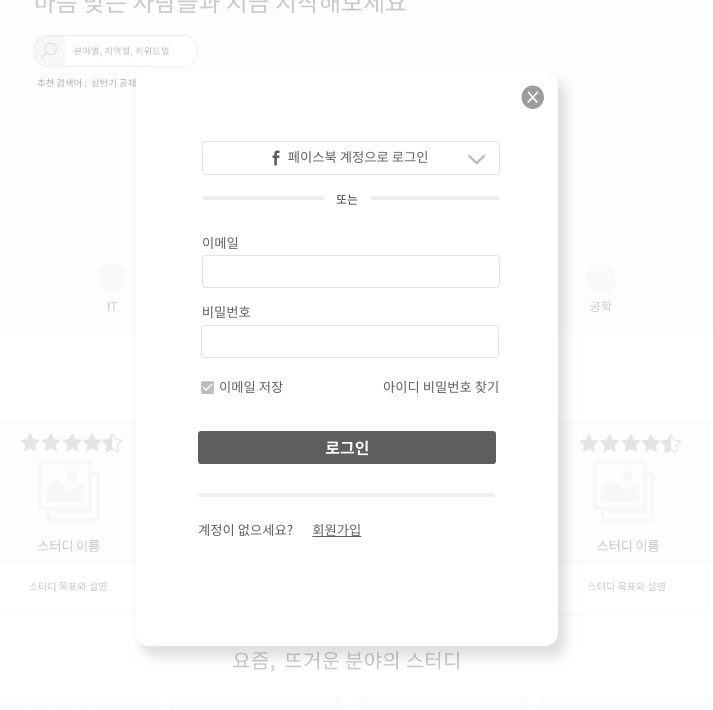
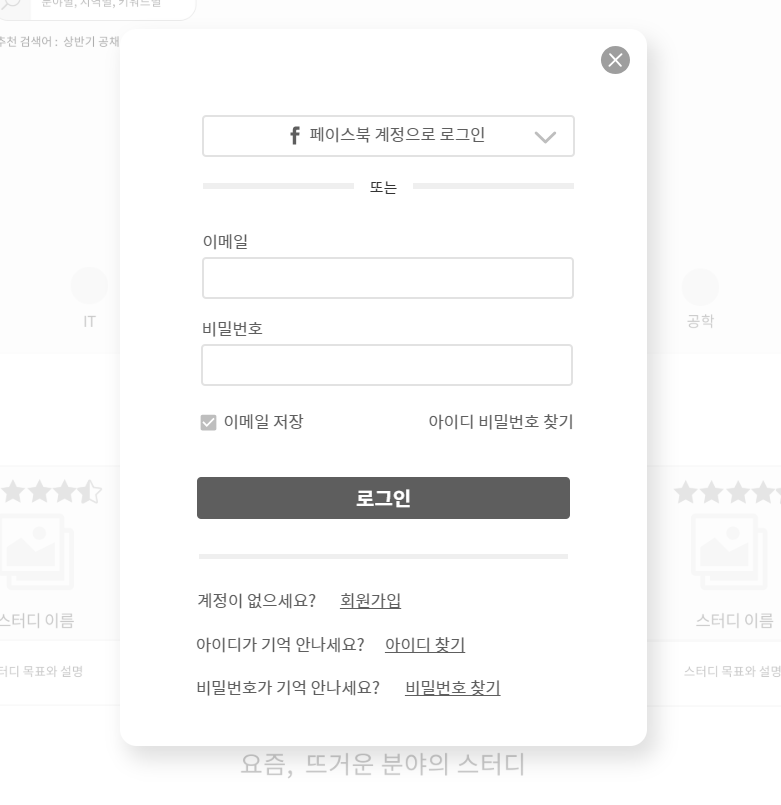
jihwan 유스케이스 수정 및 추가, use-case 수정

diff --git a/doc/use-case/jihwan/uc-StudyMemberViewManagement.md b/doc/use-case/jihwan/uc-StudyMemberViewManagement.md
@@ -1,0 +1,57 @@
+#UC - 스터디 멤버 상세 조회(StudyMemberDetailView)
+- 스터디에 가입한 멤버들의 정보를 볼 수 있는 유스케이스 이다.
+
+## 주 액터(Primary Actor)
+스터디 장
+
+## 보조 액터(Secondary Actor)
+
+## 사전 조건(Preconditions)
+- 액터는 마이페이지를 클릭한다.
+- 시스템은 마이페이지 폼을 출력한다.
+- 액터는 해당 스터디를 클릭한다.
+- 시스템은 해당 스터디 폼을 출력한다.
+
+## 종료 조건(Postconditions)
+- 멤버를 조회 하였다.
+- 멤버를 신고 하였다.
+- 멤버에게 쪽지를 보냈다.
+- 멤버에게 스터디장 권한을 위임 하였다.
+- 멤버를 추방 하였다.
+
+## 시나리오(Flow of Events)
+
+### 멤버 조회하기 (스터디 원도 가능)
+1. 액터는 해당 스터디를 클릭하면 좌측에 멤버 목록을 확인한다. 
+
+### 멤버 상세조회 (스터디 원도 가능)
+1. 액터는 좌측 멤버 목록 중 조회 하고자 하는 멤버를 클릭한다.
+2. 액터는 해당 멤버의 닉네임 및 별점을 확인 할 수 있다.
+
+### 멤버에게 쪽지 보내기 (스터디 원도 가능)
+1. 멤버 상세 조회 폼에서 쪽지 보내기 버튼을 클릭 한다.
+2. 시스템은 쪽지 보내기 폼을 출력한다.
+3. 액터는 보내고자 하는 내용을 작성 후 완료 버튼을 클릭한다.
+4. 위의 작업을 완료 후 해당 스터디의 폼이 출력된다.
+
+### 멤버 신고하기 (스터디 원도 가능)
+1. 멤버 상세 조회 폼에서 신고하기 버튼을 클릭 한다.
+2. 시스템은 신고하기 폼을 출력한다.
+3. 액터는 신고하고자 하는 내용을 작성 후 완료 버튼을 클릭한다.
+4. 위의 작업을 완료 후 해당 스터디의 폼이 출력된다.
+
+### 스터디장 권한 위임하기
+1. 멤버 상세 조회 폼에서 스터디 위임 버튼을 클릭 한다.
+2. 시스템은 위임 확인 폼을 출력한다.
+3. 액터는 확인을 누른다.
+4. 해당 멤버에게 스터디 장의 권한 위임이 완료 되었다.
+
+### 멤버 추방 하기
+1. 멤버 상세 조회 폼에서 추방 버튼을 클릭 한다.
+2. 시스템은 추방 확인 폼을 출력한다.
+3. 액터는 확인을 누른다.
+4. 해당 스터디 원은 추방 되었다.
+5. 시스템은 스터디 상세 조회 폼을 출력한다.
+
+### 스터디 멤버 조회
+![스터디 멤버 조회](./images/uc-studyMember.png)

diff --git a/doc/use-case/jihwan/uc-IdPwFind.md b/doc/use-case/jihwan/uc-IdPwFind.md
@@ -1,0 +1,50 @@
+#UC - 아이디, 비밀번호 찾기
+- 회원이 가입시 입력한 아이디, 비밀번호를 찾기 위한 유스케이스 이다.
+
+## 주 액터(Primary Actor)
+회원
+
+## 보조 액터(Secondary Actor)
+
+## 사전 조건(Preconditions)
+- 엑터는 로그인 버튼을 누른다.
+- 시스템은 로그인 폼을 출력한다.
+
+## 종료 조건(Postconditions)
+- 아이디를 찾았다.
+- 비밀번호를 찾았다.
+
+## 시나리오(Flow of Evnets)
+
+### 기본 흐름(Basic Flows)
+- 1. 엑터가 로그인 버튼을 클릭할 때 이 유스케이스를 시작한다.
+- 2. 시스템은 로그인 폼을 출력한다.
+- 3. 액터는 이메일, 암호를 입력한 후 로그인 버튼을 클릭한다.
+- 4. 로그인에 성공하여 이 전 페이지의 유스케이스로 간다.
+
+### 아이디 찾기
+- 1. 엑터가 아이디 찾기를 클릭할 때 이 유스케이스를 시작한다.
+- 2. 시스템은 아이디 찾기 폼을 출력한다.
+- 3. 엑터는 이름 혹은 닉네임과 회원가입시 등록한 휴대폰 번호를 입력한다.
+- 4. 해당 정보가 있다면 시스템은 회원가입시 등록한 이메일을 알려준다.
+- 5. 엑터는 시스템이 출력한 내용을 확인 후 확인버튼을 누른다.
+- 6. 시스템은 로그인 폼을 출력한다.
+
+### 비밀번호 찾기
+- 1. 엑터가 비밀번호 찾기를 클릭할 때 이 유스케이스를 시작한다.
+- 2. 시스템은 비밀번호 찾기 폼을 출력한다.
+- 3. 엑터는 이름 혹은 닉네임과 회원가입시 등록한 이메일을 입력한다.
+- 4. 시스템은 이름 혹은 닉네임과 회원가입시 등록한 이메일이 일치한다면, 해당 이메일로 임시 비밀번호를 전송한다.
+- 5. 이메일을 전송 후 시스템은 로그인 폼을 출력한다.
+
+### 아이디 찾기 예외 흐름
+- 엑터가 입력한 이름 혹은 닉네임과 회원가입시 등록한 휴대폰 번호가 없다면, 시스템은 정보를 재입력 하라고 알린다.
+
+### 비밀번호 찾기 예외 흐름
+- 엑터가 입력한 이름 혹은 닉네임과 회원가입시 등록한 이메일이 일치하지 않는다면, 시스템은 정보를 재입력 하라고 알린다.
+
+### 아이디 찾기
+![아이디 찾기](./images/uc-idFind.png)
+
+### 비밀번호 찾기
+![비밀번호 찾기](./images/uc-pwFind.png)

diff --git a/doc/use-case/use-cases.md b/doc/use-case/use-cases.md
@@ -41,6 +41,9 @@
 ### [스터디룸 조회](sangmin/uc-스터디룸조회.md)(비회원, 회원)
 - 비회원 및 회원이 스터디 공간을 조회하는 것
 
+### [아이디 혹은 비밀번호 찾기](jihwan/uc-idPwFind.md)(회원)
+- 회원이 로그인을 하는 것
+
 ### [로그인 하기](jihwan/uc-Login.md)(회원)
 - 회원이 로그인을 하는 것
 
@@ -89,24 +92,15 @@
 ### [스터디 게시판 관리](sanghyun/uc-스터디게시판관리.md)(스터디장, 스터디원)
 - 스터디원이 게시판의 글을 등록, 조회, 수정, 삭제 하는 것
 
-
-### [스터디 그룹의 스터디원 정보 조회](jihwan/uc-StudyMemberManagement)(스터디원)
+### [스터디 그룹의  정보 조회](jihwan/uc-StudyMemberViewManagement.md)(스터디원, 스터디장)
 - 스터디원이 그룹의 다른 스터디원 정보를 조회, 신고, 쪽지송신하는 것
-
-
+- 스터디장의 경우 스터디원을 조회, 신고, 쪽지, 추방, 위임 하는 것
 
 ### [스터디 일정 관리](heewook/uc-스터디일정.md)(스터디원, 스터디장)
 - 스터디원이 그룹의 일정을 등록, 조회, 수정, 삭제 하는 것
 
-
-
-
 ### [스터디원 가입 승인/거절](sangmin/uc-가입승인_거절.md)(스터디장)
 - 스터디장이 스터디 그룹에 가입 신청한 회원을 승인/거절 하는 것
-
-### [스터디 그룹의 스터디원 관리](jihwan/uc-StudyMemberManagementCaptain)(스터디장)
-- 스터디장이 그룹의 스터디원을 조회, 삭제 하는 것
-
 
 ### [스터디 그룹 관리](heewook/uc-스터디관리.md)(스터디장)
 - 스터디장이 그룹을 조회, 수정, 삭제 하는 것

diff --git a/doc/use-case/jihwan/uc-Login.md b/doc/use-case/jihwan/uc-Login.md
@@ -2,7 +2,6 @@
 - 회원이 스터디 가입, 스터디 관리, 공간 예약 등을 하기 위해 로그인 하는 유스케이스
 - 관리자가 회원, 게시판을 관리하기 위해 로그인 하는 유스케이스
 
-
 ## 주 액터(Primary Actor)
 회원
 
@@ -21,7 +20,6 @@
 ## 시나리오(Flow of Evnets)
 
 ### 기본 흐름(Basic Flows)
-
 - 1. 엑터가 로그인 버튼을 클릭할 때 이 유스케이스를 시작한다.
 - 2. 시스템은 로그인 폼을 출력한다.
 - 3. 액터는 이메일, 암호를 입력한 후 로그인 버튼을 클릭한다.
@@ -44,7 +42,6 @@
 - 3.4 로그인에 성공하여 이 전 페이지의 유스케이스로 간다.
 
 ### 예외 흐름(Exception Flows)
-
 - 4.1 입력한 이메일, 암호 중에 한 개라도 값이 비어있거나, 입력한 값이 회원가입시 저장한 값과 다르다면, 이메일 혹은 비밀번호를 확인하라는 내용을 출력한다.
 
 ### 로그인 폼

diff --git a/doc/use-case/jihwan/uc-MyInformation.md b/doc/use-case/jihwan/uc-MyInformation.md
@@ -33,4 +33,4 @@
 - 3.3 새 비밀번호와 새 비밀번호 확인의 값이 일치하지 않을 경우 알림 문구를 출력한다.
 
 ### 내 정보
-![내 정보](./images/uc-studyMember.png)
+![내 정보](./images/uc-myInformation.png)

diff --git a/doc/use-case/jihwan/uc-StudyAsk.md b/doc/use-case/jihwan/uc-StudyAsk.md
@@ -28,4 +28,4 @@
 ### 예외 흐름(Exception Flows)
 
 ### 스터디 문의
-![스터디 문의](./images/uc-studyJoin&Ask.png)
+![스터디 문의](./images/uc-studyAsk.png)
